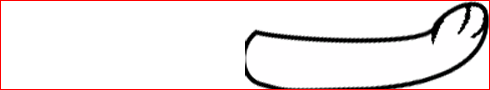
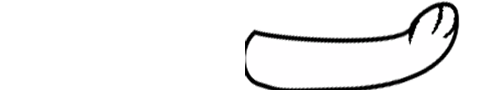
flipers

Changed region(s): [[0.0, 0.0, 1.0, 1.0]]

diff --git a/MartinezSara_NosasAndreu_SegoviaEric_OjedaSonia_HidalgoAlberto/ModulePlayer.cpp b/MartinezSara_NosasAndreu_SegoviaEric_OjedaSonia_HidalgoAlberto/ModulePlayer.cpp
@@ -10,6 +10,7 @@
 #include <iostream>
 using namespace std;
 #include <sstream>
+#include <math.h>
 
 ModulePlayer::ModulePlayer(Application* app, bool start_enabled) : Module(app, start_enabled)
 {
@@ -41,18 +42,7 @@ bool ModulePlayer::Start()
 
 
 	//PALAS
-
-<<<<<<< Updated upstream
-	circle = App->physics->CreateCircle(300, 790, 2, App->physics->STATIC, ColliderType::UNKNOWN);
-	rect = App->physics->CreateRectangle(300, 790, 35, 10, App->physics->DYNAMIC, ColliderType::UNKNOWN);
-
-	Vec1 = { 0.50, 0 };
-	App->physics->CreateRevoluteJoint(rect, Vec1, circle, Vec2, 33.0f);
-	Vec1 = { -0.50, 0 };
-
-	circle2 = App->physics->CreateCircle(196, 790, 2, App->physics->STATIC, ColliderType::UNKNOWN);
-	rect2 = App->physics->CreateRectangle(196, 790, 35, 10, App->physics->DYNAMIC, ColliderType::UNKNOWN);
-=======
+	
 	//Fliper derecho
 	fliperD.x = 300;
 	fliperD.y = 790;
@@ -68,7 +58,7 @@ bool ModulePlayer::Start()
 	fliperI.y = 790;
 	circle2 = App->physics->CreateCircle(fliperI.x, fliperI.y, 2, App->physics->STATIC, ColliderType::UNKNOWN);
 	rect2 = App->physics->CreateRectangle(fliperI.x, fliperI.y, 50, 10, App->physics->DYNAMIC, ColliderType::UNKNOWN);
->>>>>>> Stashed changes
+
 
 	App->physics->CreateRevoluteJoint(rect2, Vec1, circle2, Vec2, 30.0f);
 	textureFlipers= App->textures->Load("pinball/fliper.png");
@@ -171,24 +161,19 @@ update_status ModulePlayer::Update()
 		rect->body->ApplyForce(b2Vec2(2, -2), b2Vec2(0, -5), true);
 	}
 
-	int x, y;
-<<<<<<< Updated upstream
-	rect->GetPosition(x, y);
-	App->renderer->Blit(textureFlipers, x - 10, y, NULL, 0.3F, NULL, rect->GetRotation(), NULL, NULL, SDL_FLIP_HORIZONTAL);
-
-	rect2->GetPosition(x, y);
-	App->renderer->Blit(textureFlipers, x, y - 33, NULL, 0.3F, NULL, rect2->GetRotation(), NULL, NULL, SDL_FLIP_NONE);
 
 
 
-=======
-	rect->GetPosition(x,y);
-	App->renderer->Blit(textureFlipers, fliperD.x+50, fliperD.y-50, NULL, 0.3F, NULL, rect->GetRotation(), NULL, NULL, SDL_FLIP_HORIZONTAL);
 
-	rect2->GetPosition(x, y);
-	App->renderer->Blit(textureFlipers,fliperI.x-80, fliperI.y-20-(sin(rect2->GetRotation())*75), NULL, 0.3F, NULL, rect2->GetRotation(), NULL, NULL, SDL_FLIP_NONE); //Posicio neutral cuando angulo=0 (-80,-20)
+
+
+	//App->renderer->Blit(textureFlipers, fliperD.x+50, fliperD.y-50, NULL, 0.3F, NULL, rect->GetRotation(), NULL, NULL, SDL_FLIP_HORIZONTAL);
+	App->renderer->Blit(textureFlipers, fliperD.x - 55 + (sin(rect->body->GetAngle()) * 5), fliperD.y - 20 - (sin(rect->body->GetAngle()) * 75), NULL, 0.3F, NULL, rect->GetRotation(), NULL, NULL, SDL_FLIP_HORIZONTAL); //Posicio neutral cuando angulo=0 (-70,-20)
 	
->>>>>>> Stashed changes
+
+	App->renderer->Blit(textureFlipers,fliperI.x-70 + (sin(rect2->body->GetAngle()) * 5), fliperI.y-20-(sin(rect2->body->GetAngle())*75), NULL, 0.3F, NULL, rect2->GetRotation(), NULL, NULL, SDL_FLIP_NONE); //Posicio neutral cuando angulo=0 (-70,-20)
+	
+
 	// strings to const char*
 	string s_score = std::to_string(score);
 	const char* ch_score = s_score.c_str();
